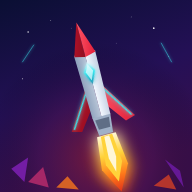
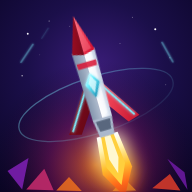
v7.3 yeni ikon + konsol komutları

diff --git a/game.js b/game.js
@@ -247,7 +247,8 @@ const FB = {
   },
   async submit() {
     const c = this.cfg();
-    if (!c || !this.ok || !save.best || this.banned) return;
+    // Kurucu ve adminler HİÇBİR sıralamaya girmez (skor bile göndermez)
+    if (!c || !this.ok || !save.best || this.banned || this.isStaff()) return;
     try {
       await fetch('https://firestore.googleapis.com/v1/projects/' + c.projectId +
         '/databases/(default)/documents/scores/' + this.uid +
@@ -291,11 +292,10 @@ const FB = {
           me: uid === this.uid,
         });
       }
-      // aktif banlı oyuncuları gizle + admin işareti koy
+      // aktif banlıları gizle + KURUCU/ADMİNLERİ SIRALAMADAN TAMAMEN ÇIKAR
       const bans = await this.fetchBans();
       const adm = await this.fetchAdmins();
-      const clean = rows.filter(r => !this.banActive(bans.get(r.id)));
-      for (const r of clean) { r.admin = adm.has(r.id); r.founder = (r.id === FOUNDER_UID); }
+      const clean = rows.filter(r => !this.banActive(bans.get(r.id)) && !adm.has(r.id) && r.id !== FOUNDER_UID);
       if (rows.length) { this.rows = clean; this.rowsAt = Date.now(); return clean; }
     } catch (e) {}
     return null;
@@ -474,7 +474,7 @@ const FB = {
   async list(coll) { const c = this.cfg(); if (!c || !this.ok) return []; try { const r = await (await this.authFetch(this.base() + '/' + coll + '?pageSize=20')).json(); return (r.documents || []).map(d => ({ id: d.name.split('/').pop(), ...this.dec(d) })); } catch (e) { return []; } },
   // ---- turnuva skor tablosu (günlük/haftalık ayrı koleksiyon) ----
   async submitTournament(sc) {
-    const c = this.cfg(); if (!c || !this.ok || !sc || this.banned) return;
+    const c = this.cfg(); if (!c || !this.ok || !sc || this.banned || this.isStaff()) return; // staff turnuvaya da girmez
     const day = Math.floor(Date.now() / 864e5), week = Math.floor(day / 7);
     for (const coll of ['t_day_' + day, 't_week_' + week]) {
       const cur = await this.get(coll + '/' + this.uid);
@@ -489,7 +489,15 @@ const FB = {
       const r = await fetch(this.base() + ':runQuery', { method: 'POST', headers: this.hdr(),
         body: JSON.stringify({ structuredQuery: { from: [{ collectionId: coll }], orderBy: [{ field: { fieldPath: 'best' }, direction: 'DESCENDING' }], limit: 100 } }) }).then(x => x.json());
       const rows = [];
-      for (const it of r) { if (!it.document) continue; const f = this.dec(it.document); const uid = it.document.name.split('/').pop(); rows.push({ name: f.name || 'Pilot', cc: f.country || 'US', s: f.best || 0, me: uid === this.uid }); }
+      const adm = await this.fetchAdmins();
+      const bans = await this.fetchBans();
+      for (const it of r) {
+        if (!it.document) continue;
+        const f = this.dec(it.document); const uid = it.document.name.split('/').pop();
+        if (adm.has(uid) || uid === FOUNDER_UID) continue;        // staff turnuvada görünmez
+        if (this.banActive(bans.get(uid))) continue;              // banlı görünmez
+        rows.push({ name: f.name || 'Pilot', cc: f.country || 'US', s: f.best || 0, me: uid === this.uid });
+      }
       return rows;
     } catch (e) { return null; }
   },
@@ -3978,10 +3986,154 @@ window.openModConsole = function () {
     const arg = parts.slice(1).join(' ');
 
     if (cmd === 'help' || cmd === '?') {
-      sys('commands:\n  ban <name>      ban a user (asks reason + time)\n  unban <name>    remove ban\n  who <name>      show user info\n  list            all known accounts\n  bans            active bans\n  clear           clear screen');
+      sys('MODERATION\n' +
+        '  ban <name>       ban a user (asks reason + time)\n' +
+        '  unban <name>     remove ban\n' +
+        '  bans             active bans\n' +
+        '  wipe <name>      delete a score (cheat cleanup)\n' +
+        'USERS\n' +
+        '  list             all known accounts\n' +
+        '  who <name>       user info\n' +
+        '  top [n]          leaderboard (staff excluded)\n' +
+        '  me               my role & uid\n' +
+        'STAFF\n' +
+        '  admins           list admins\n' +
+        '  promote <name>   make admin        (founder)\n' +
+        '  demote <name>    remove admin      (founder)\n' +
+        '  requests         admin applications (founder)\n' +
+        '  approve <name>   approve application (founder)\n' +
+        '  reject <name>    reject application  (founder)\n' +
+        '  banreqs          permanent-ban requests (founder)\n' +
+        'SUPPORT\n' +
+        '  reports          bug reports\n' +
+        '  tickets          support tickets\n' +
+        '  read <name>      read a ticket\n' +
+        '  say <name> <msg> reply to a ticket\n' +
+        'SYSTEM\n' +
+        '  stats            server counters\n' +
+        '  refresh          renew auth token\n' +
+        '  clear            clear screen');
       return;
     }
     if (cmd === 'clear') { log.innerHTML = ''; return; }
+    if (cmd === 'me' || cmd === 'whoami') { sys('role: ' + FB.role + '  ·  uid: ' + FB.uid + '  ·  name: ' + (save.name || 'Pilot')); return; }
+    if (cmd === 'refresh') { const ok = await FB.refreshToken(); await FB.detectRole(); sys(ok ? ('token renewed · role: ' + FB.role) : 'no session to renew'); return; }
+
+    if (cmd === 'stats') {
+      sys('loading…');
+      const [pl, bn, ad, rp, tk] = await Promise.all([
+        FB.listPlayers(), FB.fetchBans(), FB.listAdmins(), FB.listReports(), FB.listTickets(),
+      ]);
+      const act = [...bn.values()].filter(b => FB.banActive(b)).length;
+      line('   accounts : ' + pl.length);
+      line('   admins   : ' + ad.length);
+      line('   bans     : ' + act + ' active / ' + bn.size + ' total');
+      line('   reports  : ' + rp.length);
+      line('   tickets  : ' + tk.length);
+      return;
+    }
+
+    if (cmd === 'top') {
+      const n = Math.min(50, parseInt(arg, 10) || 10);
+      const rows = (await FB.fetchTop()) || [];
+      if (!rows.length) { sys('leaderboard empty'); return; }
+      sys('top ' + Math.min(n, rows.length) + ' (staff excluded):');
+      rows.slice(0, n).forEach((r, i) => line('   ' + String(i + 1).padStart(2) + '. ' + r.name + '  ·  ' + r.s));
+      return;
+    }
+
+    if (cmd === 'admins') {
+      const a = await FB.listAdmins();
+      if (!a.length) { sys('no admins yet'); return; }
+      sys(a.length + ' admin(s):');
+      a.forEach(x => line('   ' + (x.name || 'Admin') + '  ·  ' + x.id.slice(0, 12) + '…'));
+      return;
+    }
+
+    if (cmd === 'promote' || cmd === 'demote') {
+      if (FB.role !== 'founder') { err('founder only'); return; }
+      if (!arg) { err('usage: ' + cmd + ' <name>'); return; }
+      const u = await findUser(arg);
+      if (!u.length) { err('user not found: ' + arg); return; }
+      if (u.length > 1) { err('multiple matches:'); u.slice(0, 8).forEach(x => line('   ' + x.name)); return; }
+      if (cmd === 'promote') { const ok = await FB.approveAdmin(u[0].id, u[0].name); sys(ok ? ('✔ ' + u[0].name + ' is now ADMIN') : '✘ failed'); }
+      else { await FB.removeAdmin(u[0].id); sys('✔ ' + u[0].name + ' is no longer admin'); }
+      return;
+    }
+
+    if (cmd === 'requests') {
+      const rq = await FB.listAdminReqs();
+      if (!rq.length) { sys('no admin applications'); return; }
+      sys(rq.length + ' application(s):');
+      rq.forEach(r => line('   ' + (r.name || '?') + '  ·  ' + (r.reason || '').slice(0, 60) + '  ·  ' + r.id.slice(0, 10) + '…'));
+      sys('use: approve <name>  /  reject <name>');
+      return;
+    }
+    if (cmd === 'approve' || cmd === 'reject') {
+      if (FB.role !== 'founder') { err('founder only'); return; }
+      if (!arg) { err('usage: ' + cmd + ' <name>'); return; }
+      const rq = await FB.listAdminReqs();
+      const hit = rq.filter(r => (r.name || '').toLowerCase().includes(arg.toLowerCase()));
+      if (!hit.length) { err('application not found: ' + arg); return; }
+      if (cmd === 'approve') { const ok = await FB.approveAdmin(hit[0].id, hit[0].name); sys(ok ? ('✔ approved — ' + hit[0].name + ' is ADMIN') : '✘ failed'); }
+      else { await FB.rejectAdmin(hit[0].id); sys('✔ rejected ' + hit[0].name); }
+      return;
+    }
+    if (cmd === 'banreqs') {
+      const rq = await FB.listBanReqs();
+      if (!rq.length) { sys('no permanent-ban requests'); return; }
+      sys(rq.length + ' request(s):');
+      rq.forEach(r => line('   target ' + r.id.slice(0, 12) + '…  ·  by ' + String(r.by || '').slice(0, 8) + '…  ·  ' + (r.reason || '')));
+      return;
+    }
+
+    if (cmd === 'reports') {
+      const rp = await FB.listReports();
+      if (!rp.length) { sys('no bug reports'); return; }
+      sys(rp.length + ' report(s):');
+      rp.slice(0, 20).forEach(r => line('   [' + new Date(r.t || 0).toLocaleDateString() + '] ' + (r.name || '?') + ': ' + (r.text || '')));
+      return;
+    }
+    if (cmd === 'tickets') {
+      const tk = await FB.listTickets();
+      if (!tk.length) { sys('no tickets'); return; }
+      sys(tk.length + ' ticket(s):');
+      tk.forEach(t => line('   ' + (t.name || '?') + '  ·  ' + (t.id || '').slice(0, 12) + '…'));
+      sys('use: read <name>  /  say <name> <message>');
+      return;
+    }
+    if (cmd === 'read') {
+      if (!arg) { err('usage: read <name>'); return; }
+      const tk = await FB.listTickets();
+      const hit = tk.filter(t => (t.name || '').toLowerCase().includes(arg.toLowerCase()));
+      if (!hit.length) { err('ticket not found: ' + arg); return; }
+      const msgs = await FB.ticketMsgs(hit[0].uid || hit[0].id);
+      if (!msgs.length) { sys('(empty)'); return; }
+      sys('ticket ' + (hit[0].name || '?') + ':');
+      msgs.forEach(m => line('   ' + (m.from === 'admin' ? '[staff] ' : m.from === 'bot' ? '[bot]   ' : '[user]  ') + m.text));
+      return;
+    }
+    if (cmd === 'say') {
+      const sp = arg.indexOf(' ');
+      if (sp < 1) { err('usage: say <name> <message>'); return; }
+      const who = arg.slice(0, sp), msg = arg.slice(sp + 1);
+      const tk = await FB.listTickets();
+      const hit = tk.filter(t => (t.name || '').toLowerCase().includes(who.toLowerCase()));
+      if (!hit.length) { err('ticket not found: ' + who); return; }
+      const r = await FB.ticketSend(hit[0].uid || hit[0].id, 'admin', msg);
+      sys(r && !r.error ? ('✔ sent to ' + (hit[0].name || '?')) : '✘ failed (permission?)');
+      return;
+    }
+    if (cmd === 'wipe') {
+      if (!arg) { err('usage: wipe <name>'); return; }
+      const u = await findUser(arg);
+      if (!u.length) { err('user not found: ' + arg); return; }
+      if (u.length > 1) { err('multiple matches:'); u.slice(0, 8).forEach(x => line('   ' + x.name)); return; }
+      await FB.del('scores/' + u[0].id); FB.rowsAt = 0;
+      sys('✔ score wiped for ' + u[0].name);
+      return;
+    }
+    if (cmd === 'find') { return handle('who ' + arg); }
 
     if (cmd === 'list') {
       sys('loading…');
